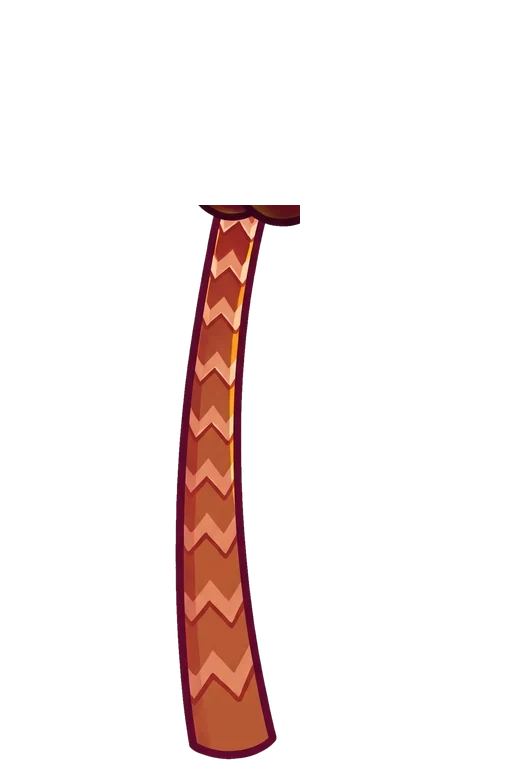
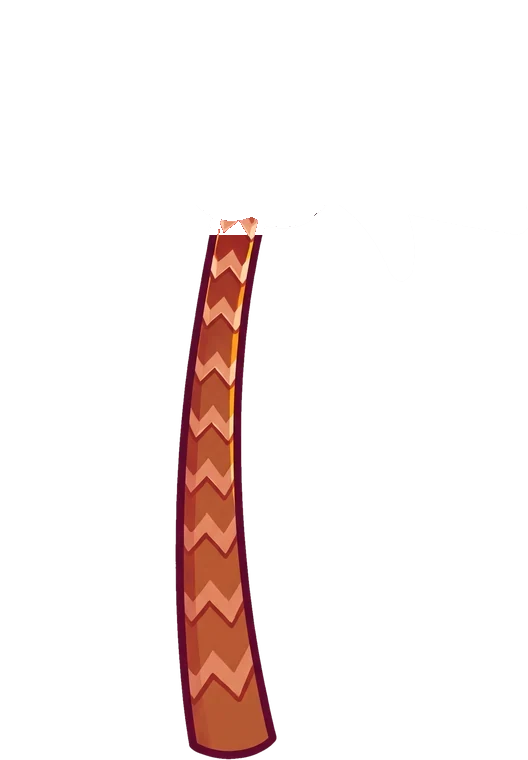
Driftwood plank bonus buy, sky without leaf rings, cleaner palm sway

Changed region(s): [[0.3939, 0.2724, 0.5758, 0.3329]]

diff --git a/index.html b/index.html
@@ -619,6 +619,17 @@ img.mg.p-bail{animation:bail .9s ease-in forwards}
 /* bonus buy: above the frame (z-index works on it as a flex item of .stagewrap, so its position stays the game's own).
    When it stands left of the board it clears the driftwood (the frame reaches .56 of --fw - 8px out). */
 #buybtn{z-index:46}
+/* the bonus buy button is a washed-up driftwood plank with two mangos on it, the words burnt into the wood.
+   The plank face runs from 22% to 88% of the image's height, so the words sit in that band. */
+.machine .stagewrap > #buybtn{width:clamp(120px,13vw,190px)!important;aspect-ratio:640/328;height:auto;padding:0!important;margin:0 0 4px!important;
+  background:url("img/buy-plank.webp?v=602240fd") center/contain no-repeat!important;border:0!important;border-radius:0!important;box-shadow:none!important;
+  display:flex;flex-direction:column;align-items:center;justify-content:center;padding-top:calc(clamp(120px,13vw,190px) * .2)!important;
+  font:400 clamp(13px,1.35vw,19px)/1 "Lilita One",system-ui,sans-serif!important;letter-spacing:.04em;color:#4a2a12!important;
+  text-shadow:0 1px 0 rgba(255,240,210,.7);filter:drop-shadow(0 6px 5px rgba(40,20,5,.45));transition:transform .15s,filter .15s}
+.machine .stagewrap > #buybtn br{display:none}
+.machine .stagewrap > #buybtn:hover:not(:disabled){filter:drop-shadow(0 6px 5px rgba(40,20,5,.45)) brightness(1.08)}
+.machine .stagewrap > #buybtn:active:not(:disabled){scale:.96}
+.machine .stagewrap > #buybtn:disabled{filter:grayscale(.6) brightness(.85);opacity:.75}
 .machine .stagewrap{--fw:clamp(72px,9vw,136px)}
 .machine .stagewrap > .sidebuy{right:calc(100% + var(--fw) * .56 + 6px)}
 
@@ -695,7 +706,7 @@ img.mg.p-bail{animation:bail .9s ease-in forwards}
 .mhud #speedbtn:not([data-level="0"]):hover{background:#fff}
 /* the rest of the chrome in the same colours */
 .pill{background:var(--cy2);border-color:#fff;color:#fff}
-.pill.hot,#buybtn{background:#fff!important;color:var(--cy3)!important;border-color:var(--cy3)!important}
+.pill.hot{background:#fff!important;color:var(--cy3)!important;border-color:var(--cy3)!important}
 .winarea{background:linear-gradient(180deg,#22c3ff,var(--cy2));border:3px solid #fff;box-shadow:0 0 0 3px rgba(0,80,138,.5),0 5px 0 rgba(0,40,80,.3)}
 .winarea .k{color:#e6f7ff}
 .winarea .v{color:#fff;text-shadow:0 2px 0 var(--cyd)}
@@ -1103,7 +1114,7 @@ img.mg.p-bail{animation:bail .9s ease-in forwards}
 @media (prefers-reduced-motion:reduce){.sc-palm .crown,.sc-crab,.sc-crab img,.sc-water .wv{animation:none}}
 
 </style>
-<script>window.MANGO_IMG_V = {"bg-day":"d919a75b","bg-sunset":"4de74376","frame-driftwood":"56b4cd35","H1":"02610a3c","H2":"9986ec72","H3":"dd03fec8","H4":"16055f06","L1":"79847f20","L2":"deade74a","L3":"dabb402b","L4":"ec24535d","L5":"ad8186b4","S1":"f0935078","sc-crab":"8c270de0","sc-dolphin":"3b0b90c2","sc-palmL-crown":"420a42b6","sc-palmL-trunk":"74a2414d","sc-palmL":"dcb46604","sc-palmR-crown":"986dfb35","sc-palmR-trunk":"09795acf","sc-palmR":"037041cd","sc-plate-day":"fef75a40","sc-plate-sunset":"03561971","sc-splash":"fd32b9b1","sc-water-day":"5a4c116b","sc-water-sunset":"efa7bf7a","sc-whale":"6d2091dd","W":"d1ec9fa7"};</script>
+<script>window.MANGO_IMG_V = {"bg-day":"d919a75b","bg-sunset":"4de74376","buy-plank":"602240fd","frame-driftwood":"56b4cd35","H1":"02610a3c","H2":"9986ec72","H3":"dd03fec8","H4":"16055f06","L1":"79847f20","L2":"deade74a","L3":"dabb402b","L4":"ec24535d","L5":"ad8186b4","S1":"f0935078","sc-crab":"8c270de0","sc-dolphin":"3b0b90c2","sc-palmL-crown":"ba362223","sc-palmL-trunk":"cc023e4e","sc-palmL":"dcb46604","sc-palmR-crown":"1607ce0d","sc-palmR-trunk":"f0ea716a","sc-palmR":"037041cd","sc-plate-day":"6a3c3539","sc-plate-sunset":"9048935b","sc-splash":"fd32b9b1","sc-water-day":"5a4c116b","sc-water-sunset":"efa7bf7a","sc-whale":"6d2091dd","W":"d1ec9fa7"};</script>
 <script>
 /*
  * Mango Surf audio - synthesized Web Audio module (play money learning project).
@@ -2705,7 +2716,7 @@ img.mg.p-bail{animation:bail .9s ease-in forwards}
 
   // ---------- crabs on the frame: two small crabs walk back and forth along the top plank of the driftwood ----------
   // x/x2: where each walk starts and turns, as a share of the board width; t: seconds for a full there-and-back
-  const FRAME_CRABS = [{x: .1, x2: .38, t: 9}, {x: .86, x2: .6, t: 7.5, d: -3}];
+  const FRAME_CRABS = [{x: .42, x2: .62, t: 8}, {x: .9, x2: .7, t: 7.5, d: -3}];
   function frameCrabs(){
     const st = document.querySelector('.machine .stage'); if (!st || st.querySelector('.fcrabs')) return;
     const box = document.createElement('div'); box.className = 'fcrabs'; box.setAttribute('aria-hidden', 'true');
@@ -2764,8 +2775,8 @@ img.mg.p-bail{animation:bail .9s ease-in forwards}
   // plates (the beach with the crabs and palms painted out) swap with the bonus; the moving pieces are separate images.
   const SC = {
     // trunks stand still; only the crown (leaves + coconuts) moves, bending at the top of the trunk (cx/cy, image pixels)
-    palmL: {x: -200, y: 280, w: 654, h: 700, iw: 654, ch: 358, cx: 290, cy: 262},
-    palmR: {x: 1511, y: 188, w: 449, h: 646, iw: 528, ch: 282, cx: 235, cy: 205},
+    palmL: {x: -200, y: 280, w: 654, h: 700, iw: 654, ch: 398, cx: 290, cy: 262},
+    palmR: {x: 1511, y: 188, w: 449, h: 646, iw: 528, ch: 280, cx: 235, cy: 205},
     water: {y: 395, h: 350},                                      // the painted sea and its foam line, cut from the plates
     sea: {x0: 420, x1: 1380, y: 470}                              // where dolphins and whales show: the open water, its surface line
   };
